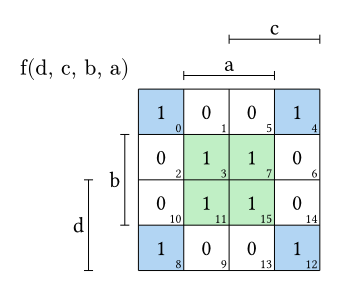
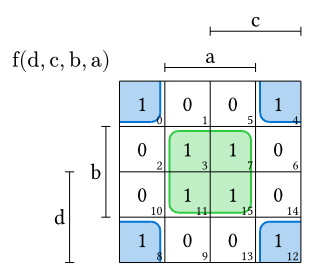
Update README

diff --git a/README.md b/README.md
@@ -6,8 +6,8 @@
 
 The `karnaugh` function takes two necessary arguments: `variables` and `values`. The parameter `terms` is optional and lets you select cells in the Karnaugh map without the hassle of specifying coordinates:
 
-```ts
-import "@preview/karnaugh-express:0.1.0": *
+```typ
+#import "@preview/karnaugh-express:0.1.0": karnaugh
 
 #karnaugh(
   ("d", "c", "b", "a"),
@@ -32,8 +32,8 @@ Values are automatically placed so that you can read them directly from a truth 
 | 1 | 1 | 0 | 6        |
 | 1 | 1 | 1 | 7        |
 
-```ts
-import "@preview/karnaugh-express:0.1.0": *
+```typ
+#import "@preview/karnaugh-express:0.1.0": *
 
 #karnaugh(
   ("a", "b", "c"),
@@ -41,7 +41,7 @@ import "@preview/karnaugh-express:0.1.0": *
   arrangement-standard: 1
 )
 ```
-<img src="examples/example-3.png" width="250" alt = "A 2x4 Karnaugh map for variables a, b, and c. Each cell contains its corresponding decimal index (0 through 7) to demonstrate how values from a truth table are mapped to the grid.">
+<img src="examples/example-2.png" width="250" alt = "A 2x4 Karnaugh map for variables a, b, and c. Each cell contains its corresponding decimal index (0 through 7) to demonstrate how values from a truth table are mapped to the grid.">
 
 ## Arranging Variables on the Axis
 
@@ -50,8 +50,8 @@ There are different ways of arranging variables on a Karnaugh map. One is the st
 
 `arrangement-standard: 0` is used in the first image. `arrangement-standard: 1` looks like this:
 
-```ts
-import "@preview/karnaugh-express:0.1.0": *
+```typ
+#import "@preview/karnaugh-express:0.1.0": *
 
 #karnaugh(
   ("a", "b", "c", "d"),
@@ -60,13 +60,13 @@ import "@preview/karnaugh-express:0.1.0": *
   terms: ("!b, !a", "a, b")
 )
 ```
-<img src="examples/example-2.png" width="250" alt = "A 4x4 Karnaugh map for variables a, b, c, and d using arrangement-standard: 1. The vertical bars are now named after the first two variables and the horizontal bars are named after the last two variables.">
+<img src="examples/example-3.png" width="250" alt = "A 4x4 Karnaugh map for variables a, b, c, and d using arrangement-standard: 1. The vertical bars are now named after the first two variables and the horizontal bars are named after the last two variables.">
     
 ### 2. Custom Arrangement
 You can also specify a completely custom arrangement. Just provide an `arrangement` parameter as an array of two arrays. The first array contains the row axis variables, and the second array contains the column axis variables:
 
-```ts
-import "@preview/karnaugh-express:0.1.0": *
+```typ
+#import "@preview/karnaugh-express:0.1.0": *
 
 #karnaugh(
   ("a", "b", "c", "d"),
@@ -81,12 +81,33 @@ import "@preview/karnaugh-express:0.1.0": *
 
 To select cells in the K-map, you need to pass the `terms` parameter, which is an array of strings. Each element of the array represents a separate term. In the string, you need to separate each literal with a comma (`,`). If the variable should be `0`, put an exclamation mark (`!`) before the variable.
 
+Term highlighting supports automatic wraparound grouping across opposing edges of the Karnaugh map.
+
+### Gaps
+Use highlight-inset to control the gap between the grid and a highlight outline.
+
+When multiple highlights overlap, readability can be improved by varying the inset for each term. The amount by which successive highlights are offset is determined by highlight-stroke. Use highlight-steps to specify how many different inset levels should be used before the pattern repeats.
+
+```typ
+#import "@preview/karnaugh-express:0.1.0": *
+
+#karnaugh(
+  ("a", "b", "c", "d"),
+  (),
+  var-disp: ($x_1$, $x_2$, $x_3$, $x_4$), 
+  terms: ("c", "a, b", "b,d"),
+  highlight-inset: 0.1, 
+  highlight-steps: 3,
+)
+```
+<img src="examples/example-5.png" width="250" alt = "A 4×4 Karnaugh map with three highlighted terms using different outline inset levels to keep overlapping highlights visually distinct.">
+
 ## Display Variables
 
 Because the variables you pass into the `karnaugh` function fulfill a functional purpose (used to specify which cells should be highlighted), they cannot be passed in math mode. This is what the `var-disp` parameter is for. Just create a second array detailing how you want each variable to be displayed, in the exact same order as your functional variables:
 
-```ts
-import "@preview/karnaugh-express:0.1.0": *
+```typ
+#import "@preview/karnaugh-express:0.1.0": *
 
 #karnaugh(
   ("a", "b", "c", "d"),
@@ -94,27 +115,33 @@ import "@preview/karnaugh-express:0.1.0": *
   var-disp: ($x_1$, $x_2$, $x_3$, $x_4$)
 )
 ```
-<img src="examples/example-5.png" width="250" alt = "The grid is arranged in the same way as the first example. However, the bars are no longer labeled a, b, c, d but instead x_1, x_2, x_3 and x_4 in math-mode.">
+<img src="examples/example-6.png" width="250" alt = "The grid is arranged in the same way as the first example. However, the bars are no longer labeled a, b, c, d but instead x_1, x_2, x_3 and x_4 in math-mode.">
     
 ## Other Parameters
 
 | Parameter | Default | Type | Explanation |
 | --- | --- | --- | --- |
-| `arrangement` | Calculated | `((string,), (string,))` | Explained above |
+| `arrangement` | `auto` | `((string,), (string,))` | Explained above |
 | `arrangement-standard` | `0` | `1` or `0` | Explained above |
-| `terms` | `("",)` | `(string,)`| Explained above |
+| `terms` | `()` | `(string,)`| Explained above |
 | `var-disp` | Same as `variables` | `(content,)` | Explained above |
 | `stroke` | `0.5pt` | `length` | The width of all lines |
 | `grid-size` | `0.8cm` | `length` | The size of the grid cells |
 | `draw-subscripts` | `true` | `bool` | Turns the cell index subscripts on or off |
-| `transparency` | `70%` | `ratio` | Determines the transparency of the cell highlight colors |
-| `colors` | `(blue, green, yellow, purple, red)` | `(color,)` | The colors used for cell selection. The package loops through them. |
-| `default-fill` | `""` | `string` | When some values aren't provided, cells will be filled with this placeholder |
+| `highlight-transparency` | `70%` | `ratio` | Determines the transparency of the cell highlight colors |
+| `highlight-colors` | `(blue, green, yellow, purple, red)` | `(color,)` | The colors used for cell selection. The package loops through them. |
+| `highlight-radius` | `0.2` | `float` | The radius of the rounded corners of the cell highlights |
+| `highlight-inset` | `0.1` | `float` | Size of the gap between the grid and the boxes used for the cell highlights |
+| `highlight-stroke` | `1pt` | `length` | Stroke thickness for term outlines |
+| `highlight-steps` | `1` | `int` | How often the highlight-gap will increase in order to prevent overlap |
+| `default-fill` | `none` | `content` | When some values aren't provided, cells will be filled with this placeholder |
 | `value-size` | `1em` | `relative length` | Font size of the values |
 | `subscript-size` | `0.6em` | `relative length` | Font size of the subscripts |
-| `distance-subscript-corner` | `0.05` | `length` | Distance from the corner of the grid to the subscripts |
-| `distance-bar-grid` | `0.3` | `length` | Distance from one bar to the other |
-| `distance-bar-letter` | `0.1` | `length` | Distance from the letters (variables) to the bars |
-| `small-bar-len` | `0.1` | `length` | The length of the small lines (or half of it) |
-| `label` | Calculated | `content` | The "title" of the map. Use `none` if you want no label. |
-| `label-position` | `(0.2, 0.2)` | `(length, length)` | The position of the label relative to the upper left corner of the grid |
+| `distance-subscript-corner` | `0.05` | `float` | Distance from the corner of the grid to the subscripts |
+| `distance-bar-grid` | `0.3` | `float` | Distance from one bar to the grid |
+| `distance-bar-bar` | `0.8` | `float` | Distance between adjacent bars |
+| `distance-bar-letter` | `0.1` | `float` | Distance from the letters (variables) to the bars |
+| `small-bar-len` | `0.1` | `float` | The length of the small lines (or half of it) |
+| `function-name` | `"f"` | `content` | The function name used in the autogenerated "title" of the map |
+| `label` | `auto` | `content` | The label shown in the upper-left corner of the map. |
+| `label-position` | `(0.2, 0.2)` | `(float, float)` | The position of the label relative to the upper left corner of the grid |
